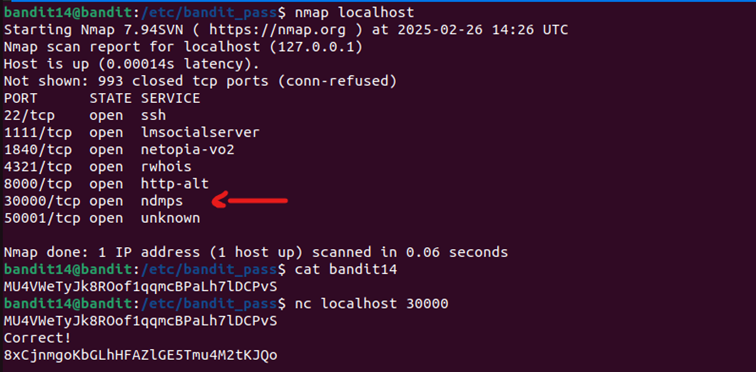
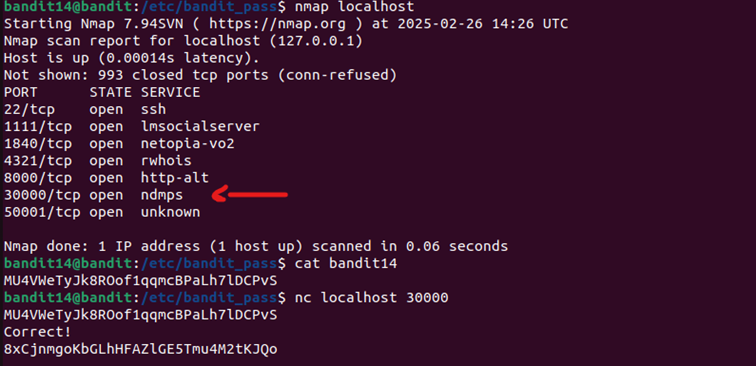
overthewire bandit post images modified

Changed region(s): [[0.0, 0.0, 1.0, 0.6011], [0.0, 0.6612, 0.6693, 0.9918]]

diff --git a/content/posts/overthewire-bandit.md b/content/posts/overthewire-bandit.md
@@ -392,7 +392,7 @@ Here are some useful [tmux](https://manpages.ubuntu.com/manpages/bionic/man1/tmu
 
 ## {{< theme_text_color >}}Level 21→22.{{< /theme_text_color >}}
 
-(switched to {{< theme_text_color >}}Debian{{< /theme_text_color >}} which explains the slight changes in terminal looks)
+(switched to [Kali](https://www.kali.org/) which explains the slight changes in terminal looks)
 
 You first need to look into the [cron jobs](https://en.wikipedia.org/wiki/Cron) by examining the system-wide cron directory :
 
